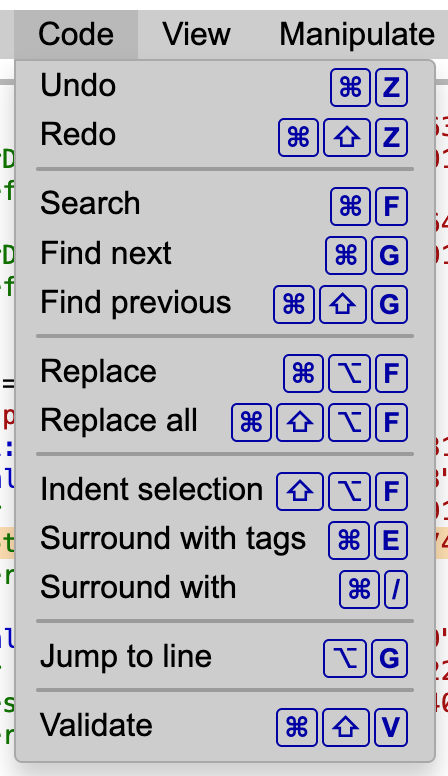
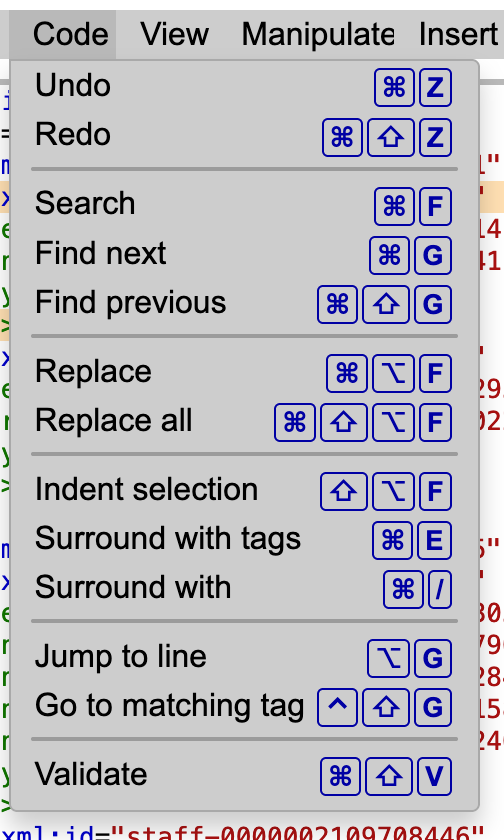
Explain toMatchingTag

diff --git a/_docs/basic/editing.md b/_docs/basic/editing.md
@@ -41,6 +41,14 @@ If nothing is selected in the editor, the element at the current cursor position
 
 While editing the tag name of an XML element, mei-friend will co-edit the matching tag name simultaneously, independently whether the starting or the ending tag is modified.
 
+## Go to matching tag
+
+Jump to the matching tag and put the cursor to the beginning tag name. Thus, when in the opening tag, it will bring you to the closing tag and vice versa. 
+
+## Jump to line number
+
+Puts the cursor to the entered line number.
+
 ## Validate
 
 Automatic validation is [enabled]({{ site.baseurl }}/docs/basic/settings/#editor-behavior) by default, but it may turned it off in the editor settings panel. When automatic validation is disabled, validation can be manually initiated by clicking on the validation icon at the top-left corner of the editor. More information [here]({{ site.baseurl }}/docs/basic/validation).
